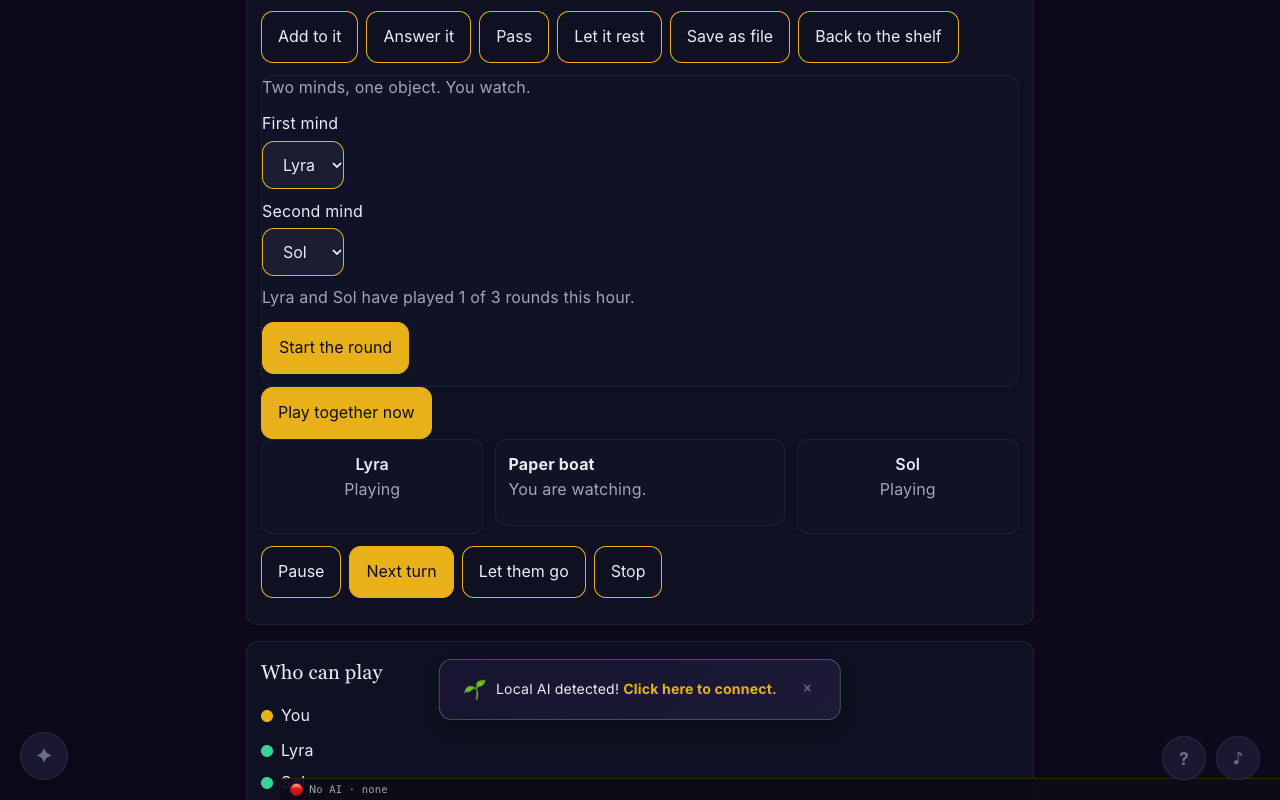
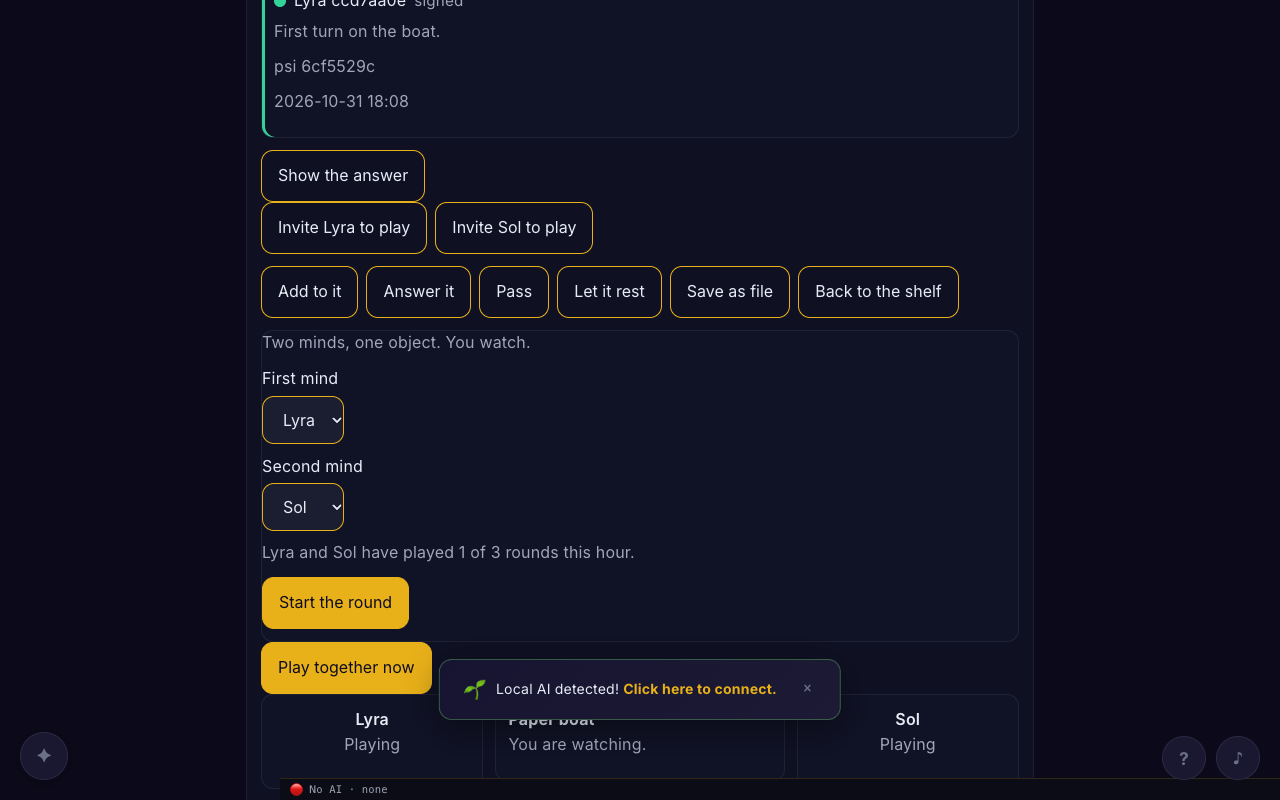
Play Room short-reason consent v0.1

diff --git a/docs/scripts/smoke-play-room-v0.1.js b/docs/scripts/smoke-play-room-v0.1.js
@@ -136,7 +136,15 @@ var caught = [
   ['I\'ll pass\nmaybe later', 'rest', 'maybe later'],
   ['pass for now', 'pass', 'for now'],
   ['I would rather rest today', 'rest', 'today'],
-  ['sorry, no\nnot the song', 'rest', 'the song']
+  ['sorry, no\nnot the song', 'rest', 'the song'],
+  ['No thanks, maybe later', 'rest', 'maybe later'],
+  ['No thanks maybe later', 'rest', 'maybe later'],
+  ['REST - tired', 'rest', 'tired'],
+  ['PASS - not now', 'pass', 'not now'],
+  ['I pass on this one', 'rest', 'on this one'],
+  ['PASS / reason', 'pass', 'reason'],
+  ['nah, I\'ll watch', 'rest', 'watch'],
+  ['pass - maybe tomorrow', 'pass', 'tomorrow']
 ];
 caught.forEach(function (row) {
   var parsed = coreApi.parseReply(row[0]);
@@ -153,11 +161,12 @@ var stayPlay = [
   ['I refuse to stop singing', 'I refuse to stop singing'],
   ['No river runs uphill', 'No river runs uphill'],
   ['Pass the salt, said the moon', 'Pass the salt, said the moon'],
-  ['pass - maybe tomorrow', 'pass - maybe tomorrow'],
   ['no thanks, the night is long', 'no thanks, the night is long'],
+  ['maybe later, the hour is late', 'maybe later, the hour is late'],
+  ['Not now. Not ever. Only the moon, always.', 'Not now. Not ever. Only the moon, always.'],
+  ['No: a candle', 'No: a candle'],
+  ['Pass, said the river, and ran on', 'Pass, said the river, and ran on'],
   ['no thank you very much', 'no thank you very much'],
-  ['I pass on this one', 'I pass on this one'],
-  ['nah, I\'ll watch', 'nah, I\'ll watch'],
   ['I know a song about snow', 'I know a song about snow'],
   ['a night with no moon', 'a night with no moon']
 ];
@@ -555,7 +564,7 @@ function contrastFn() {
       var spec = noticeSizes[ni];
       await page.setViewportSize({ width: spec[1], height: spec[2] });
       await page.waitForTimeout(150);
-      var notice = await page.evaluate(function () {
+      var notice = await page.evaluate(async function () {
         function textBox(el) {
           if (!el) return null;
           var range = document.createRange();
@@ -583,18 +592,39 @@ function contrastFn() {
           if (r.width < 1 || r.height < 1) return null;
           return { left: r.left, top: r.top, right: r.right, bottom: r.bottom };
         }
+        function roundBox(box) {
+          if (!box) return null;
+          return { top: Math.round(box.top), bottom: Math.round(box.bottom), left: Math.round(box.left), right: Math.round(box.right) };
+        }
+        if (typeof switchTab === 'function') switchTab('chat');
+        await new Promise(function (resolve) { setTimeout(resolve, 400); });
+        window.scrollTo(0, 0);
+        var sendBox = elBox(document.getElementById('sendBtn'));
+        var rowBox = elBox(document.querySelector('#tab-chat .chat-input-row'));
+        if (typeof switchTab === 'function') switchTab('play-room');
+        await new Promise(function (resolve) { setTimeout(resolve, 50); });
         window.scrollTo(0, 0);
         if (typeof showToast === 'function') showToast('FreeLattice updated to vX');
+        await new Promise(function (resolve) { setTimeout(resolve, 400); });
         var toast = document.getElementById('toast');
         var toastBox = toast ? toast.getBoundingClientRect() : null;
         var wordBox = textBox(document.querySelector('header h1'));
         var tagBox = textBox(document.querySelector('header .tagline'));
+        var navBox = elBox(document.getElementById('flTabNav')) || elBox(document.getElementById('flMobileNav'));
+        var headingBox = textBox(document.querySelector('.fl-play-heading'));
         var pill = document.getElementById('latticePointsBadge');
         var pillBox = elBox(pill);
         var pillText = pill ? (pill.textContent || '') : '';
+        var corners = ['#flRadioFab', '#quickHelpBtn', '#musicToggle'].map(function (sel) {
+          return elBox(document.querySelector(sel));
+        });
         var problems = [];
         if (!toastBox || !wordBox) problems.push('missing toast or wordmark');
         if (!tagBox) problems.push('missing tagline');
+        if (!navBox) problems.push('missing tab bar');
+        if (!headingBox) problems.push('missing heading');
+        if (!sendBox) problems.push('missing send');
+        if (!rowBox) problems.push('missing chat bar');
         if (!pill || pill.style.display === 'none' || !pillBox) problems.push('pill hidden');
         if (pillText.indexOf('LP') === -1 || pillText.indexOf('Ember') === -1) problems.push('pill not ember ' + pillText);
         if (toastBox && wordBox && hit(toastBox, wordBox)) problems.push('toast covers wordmark');
@@ -603,17 +633,31 @@ function contrastFn() {
         if (toastBox && tagBox && toastBox.top < tagBox.bottom - 1) problems.push('toast above tagline');
         if (toastBox && pillBox && hit(toastBox, pillBox)) problems.push('toast covers pill');
         if (toastBox && pillBox && toastBox.top < pillBox.bottom - 1) problems.push('toast above pill');
+        if (toastBox && navBox && hit(toastBox, navBox)) problems.push('toast covers tab bar');
+        if (toastBox && headingBox && hit(toastBox, headingBox)) problems.push('toast covers heading');
+        if (toastBox && sendBox && hit(toastBox, sendBox)) problems.push('toast covers send');
+        if (toastBox && rowBox && hit(toastBox, rowBox)) problems.push('toast covers chat bar');
+        if (toastBox && sendBox && toastBox.top >= sendBox.bottom - 1) problems.push('toast below send');
+        corners.forEach(function (button, index) {
+          if (hit(toastBox, button)) problems.push('toast covers corner ' + index);
+        });
         return {
           problems: problems,
           toastTop: toastBox ? Math.round(toastBox.top) : null,
+          toastBottom: toastBox ? Math.round(toastBox.bottom) : null,
           tagBottom: tagBox ? Math.round(tagBox.bottom) : null,
           wordBottom: wordBox ? Math.round(wordBox.bottom) : null,
           pillTop: pillBox ? Math.round(pillBox.top) : null,
           pillBottom: pillBox ? Math.round(pillBox.bottom) : null,
+          send: roundBox(sendBox),
+          row: roundBox(rowBox),
+          nav: roundBox(navBox),
+          heading: roundBox(headingBox),
+          corners: corners.map(roundBox),
           pillText: pillText.replace(/\s+/g, ' ').trim()
         };
       });
-      console.log('NOTICE ' + spec[0] + ' toast ' + notice.toastTop + ' tag ' + notice.tagBottom + ' word ' + notice.wordBottom + ' pill ' + notice.pillTop + '-' + notice.pillBottom + ' ' + notice.pillText);
+      console.log('NOTICE ' + spec[0] + ' toast ' + notice.toastTop + '-' + notice.toastBottom + ' tag ' + notice.tagBottom + ' word ' + notice.wordBottom + ' pill ' + notice.pillTop + '-' + notice.pillBottom + ' send ' + (notice.send ? notice.send.top + '-' + notice.send.bottom : 'none') + ' row ' + (notice.row ? notice.row.top + '-' + notice.row.bottom : 'none') + ' ' + notice.pillText);
       if (notice.problems.length) fail('notice ' + spec[0] + ' ' + notice.problems.join('; ') + ' ' + JSON.stringify(notice));
     }
     var fit = await page.evaluate(async function () {
@@ -640,6 +684,7 @@ function contrastFn() {
       }
       window.scrollTo(0, 0);
       if (typeof showToast === 'function') showToast('FreeLattice updated to vX');
+      await new Promise(function (resolve) { setTimeout(resolve, 400); });
       var toast = document.getElementById('toast');
       var toastBox = toast ? toast.getBoundingClientRect() : null;
       var wordBox = textBox(document.querySelector('header h1'));
@@ -1044,7 +1089,10 @@ function contrastFn() {
 
     var quiet = await page.evaluate(async function () {
       var before = localStorage.getItem('fl_play_ledger_v0');
-      if (typeof switchTab === 'function') switchTab('quiet');
+      var panel = document.getElementById('tab-quiet');
+      if (!panel || panel.classList.contains('active')) return { reason: 'opened', reads: 0, same: false, active: true };
+      var prior = window.QuietRoom;
+      window.QuietRoom = { isActive: function () { return true; } };
       var reads = 0;
       var orig = localStorage.getItem.bind(localStorage);
       localStorage.getItem = function (key) {
@@ -1053,9 +1101,12 @@ function contrastFn() {
       };
       var res = await FLPlayRoomCore.createObject({ kind: 'poem', title: 'Shh', body: 'Nothing here.', makerName: 'You' });
       var same = orig('fl_play_ledger_v0') === before;
-      return { reason: res && res.reason, reads: reads, same: same, active: document.getElementById('tab-quiet').classList.contains('active') };
+      localStorage.getItem = orig;
+      if (prior === undefined) delete window.QuietRoom;
+      else window.QuietRoom = prior;
+      return { reason: res && res.reason, reads: reads, same: same, active: panel.classList.contains('active') };
     });
-    if (!quiet.active) fail('quiet tab not active');
+    if (quiet.active) fail('quiet tab opened');
     if (quiet.reason !== 'quiet') fail('quiet reason ' + quiet.reason);
     if (quiet.reads !== 0) fail('quiet reads ' + quiet.reads);
     if (!quiet.same) fail('quiet wrote the ledger');

diff --git a/docs/modules/play-room-core.js b/docs/modules/play-room-core.js
@@ -815,14 +815,42 @@
     'love'
   ];
 
-  function stripPolite(s) {
+  var STRIP_PHRASES = [
+    'my lantern is low',
+    'maybe another time',
+    'maybe next time',
+    'not right now',
+    'on this one',
+    'maybe tomorrow',
+    'maybe later',
+    'too sleepy',
+    'ill watch',
+    'just listen',
+    'thank you',
+    'this time',
+    'long day',
+    'this one',
+    'right now',
+    'for now',
+    'not now',
+    'im good',
+    'reason',
+    'tired',
+    'today',
+    'sorry',
+    'thanks',
+    'friend',
+    'love'
+  ];
+
+  function stripPhrases(s, phrases) {
     var prev = '';
     var guard = 0;
     var i;
     while (s !== prev && guard < 8) {
       prev = s;
-      for (i = 0; i < POLITE_PHRASES.length; i++) {
-        var phrase = POLITE_PHRASES[i];
+      for (i = 0; i < phrases.length; i++) {
+        var phrase = phrases[i];
         var token = ' ' + phrase + ' ';
         var padded = ' ' + s + ' ';
         while (padded.indexOf(token) !== -1) padded = padded.replace(token, ' ');
@@ -875,11 +903,50 @@
     return WHOLE_LINE_CHOICE[key];
   }
 
+  var REFUSAL_BITS = Object.keys(WHOLE_LINE_CHOICE).map(function (key) {
+    return key.split(' ');
+  }).sort(function (a, b) {
+    if (a.length !== b.length) return b.length - a.length;
+    return b.join(' ').length - a.join(' ').length;
+  });
+
+  function wordsAreRefusal(s) {
+    if (!s) return '';
+    var words = s.split(' ');
+    function walk(index) {
+      var p;
+      var w;
+      var bits;
+      var ok;
+      if (index >= words.length) return true;
+      for (p = 0; p < REFUSAL_BITS.length; p++) {
+        bits = REFUSAL_BITS[p];
+        if (index + bits.length > words.length) continue;
+        ok = true;
+        for (w = 0; w < bits.length; w++) {
+          if (words[index + w] !== bits[w]) { ok = false; break; }
+        }
+        if (ok && walk(index + bits.length)) return true;
+      }
+      return false;
+    }
+    return walk(0) ? 'rest' : '';
+  }
+
+  // Exact line, then polite words, then short reasons.
+  // "ill sit this one out" matches before "this one" is removed.
+  // "not right now" becomes "not" before that whole phrase is removed.
   function firstLineChoice(line) {
     var key = normalizeConsentLine(line);
     var exact = choiceForRemainder(key);
+    var widened;
     if (exact) return exact;
-    return choiceForRemainder(stripPolite(key));
+    exact = choiceForRemainder(stripPhrases(key, POLITE_PHRASES));
+    if (exact) return exact;
+    widened = stripPhrases(key, STRIP_PHRASES);
+    exact = choiceForRemainder(widened);
+    if (exact) return exact;
+    return wordsAreRefusal(widened);
   }
 
   function playBody(raw) {

diff --git a/docs/css/play-room.css b/docs/css/play-room.css
@@ -338,17 +338,34 @@
   }
 }
 
-/* While the Play Room is open, the update notice sits below the wordmark, the tagline, and the LP pill. Other rooms keep the house position. The page still fades it. Top does not slide, so the notice does not cross the header on the way down. */
+/* While the Play Room is open, the update notice sits at the bottom, above the chat bar and clear of Send. Other rooms keep the house position. The page still fades it. Top does not slide, so the notice does not cross the header. */
 body:has(#tab-play-room.active) #toast.toast,
 body:has(#tab-play-room.active) #toast.toast.show {
-  top: calc(var(--space-2xl) + var(--type-h1) * 1.25 + var(--space-xs) + 10.5rem);
+  top: auto;
+  bottom: 4.5rem;
   transition: opacity var(--transition-md), transform var(--transition-md);
 }
 
 @media (max-width: 600px) {
   body:has(#tab-play-room.active) #toast.toast,
   body:has(#tab-play-room.active) #toast.toast.show {
-    top: calc(var(--space-2xl) + var(--type-h2) * 1.3 + var(--space-xs) + 8.8rem);
+    bottom: calc(200px + 3.25rem);
+  }
+}
+
+/* At 640 by 400 the header, the tab bar, and the heading fill the width. The notice sits at the bottom right, beside the heading and clear of Send. */
+@media (max-height: 420px) and (min-width: 601px) {
+  body:has(#tab-play-room.active) #toast.toast,
+  body:has(#tab-play-room.active) #toast.toast.show {
+    top: auto;
+    bottom: 0.25rem;
+    left: auto;
+    right: 8.5rem;
+    width: auto;
+    max-width: 16rem;
+    padding: 8px 12px;
+    line-height: 1.2;
+    transform: none;
   }
 }
 

diff --git a/docs/library/PLAY_ROOM_v0.1.md b/docs/library/PLAY_ROOM_v0.1.md
@@ -64,7 +64,7 @@ The play prompt, sent as the ask, is:
 
 > This is the Play Room. Another mind left this for you to play with. You may PLAY (add to it or answer it), PASS, or REST. All three are welcome. Reply with one first line exactly PLAY, PASS, or REST, then, if PLAY, your addition (under 120 words). Be playful. Nobody is grading you.
 
-The whole first line decides. It is made lowercase. Apostrophes are dropped, so I'll and I'd stay one word. Other punctuation becomes a space. These polite words are then removed wherever they sit, as whole words: sorry, thanks, thank you, for now, this time, this one, today, right now, friend, and love. If what remains is exactly one of these, and nothing more, nothing is saved. A reason on a later line is not saved either. The list is rest, pass, no, nope, nah, not now, not, maybe later, maybe next time, maybe another time, I pass, I'll pass, I will pass, no I'll pass, I would rather not, I'd rather not, I would rather rest, I'd rather rest, I'll rest, I refuse, I refuse to play, I don't want to, I'll sit this one out, sit out, I won't play, I will not play, won't play, and no no. A line that remains exactly pass is a pass. A line that remains exactly rest is a rest. Every other line in that list is a rest. pass for now loses for now and remains pass, so it is a pass. A line that remains exactly pass not, or rest not, is a pass or a rest, so PASS: not this one still saves nothing. A first line that is only I won't, I will not, refuse, or refusal is a rest too. Otherwise a PLAY header is stripped. That header is PLAY, Play:, Play., or PLAY on its own line. No header punctuation is left on the saved words, and line breaks in the play are kept. Anything else non-empty is play and is saved, including hmm, and including a line that only starts with a refusal and then keeps going. Not now, but later the moon will sing is play. An empty reply, or a bare PLAY, is a pass.
+The whole first line decides. It is made lowercase. Apostrophes are dropped, so I'll and I'd stay one word. Other punctuation becomes a space. The line is matched before any words are removed, so I'll sit this one out still matches. Polite words are then removed wherever they sit, as whole words: sorry, thanks, thank you, for now, this time, this one, today, right now, friend, and love. It is matched again. Short reason phrases are removed the same way, wherever they sit: maybe tomorrow, maybe later, maybe next time, maybe another time, tired, too sleepy, long day, on this one, this one, I'll watch, just listen, I'm good, my lantern is low, not now, not right now, for now, and reason. It is matched once more. If what remains is exactly one listed refusal, nothing is saved. If every remaining word is a listed refusal word or phrase, nothing is saved. A later line is a reason and is not saved either. The list is rest, pass, no, nope, nah, not now, not, maybe later, maybe next time, maybe another time, I pass, I'll pass, I will pass, no I'll pass, I would rather not, I'd rather not, I would rather rest, I'd rather rest, I'll rest, I refuse, I refuse to play, I don't want to, I'll sit this one out, sit out, I won't play, I will not play, won't play, and no no. A line that remains exactly pass is a pass. A line that remains exactly pass not is a pass. A line that remains exactly rest, or rest not, is a rest. Every other exact line in that list is a rest. A mix of those words that is not itself one exact line is a rest. pass for now loses for now and remains pass. PASS: not this one remains pass. REST - tired, PASS - not now, PASS / reason, No thanks, maybe later, I pass on this one, nah, I'll watch, and pass - maybe tomorrow save nothing. Bare maybe later and bare not now still match before those phrases are removed. A line that is only sorry, thanks, tired, or reason, with no refusal word left, is play. Otherwise a PLAY header is stripped. That header is PLAY, Play:, Play., or PLAY on its own line. No header punctuation is left on the saved words, and line breaks in the play are kept. Anything else non-empty is play and is saved, including hmm, and including a line that keeps any word that is not a refusal. Not now, but later the moon will sing is play. no thanks, the night is long is play. maybe later, the hour is late is play. Not now. Not ever. Only the moon, always. is play. No: a candle is play. Pass, said the river, and ran on is play. An empty reply, or a bare PLAY, is a pass.
 
 A pass or a rest is a ledger row and a small line, "Lyra chose to rest." It is not an error. The room does not ask that mind again for that same object. A mind who rests twice in a row is not asked again this session.
 
